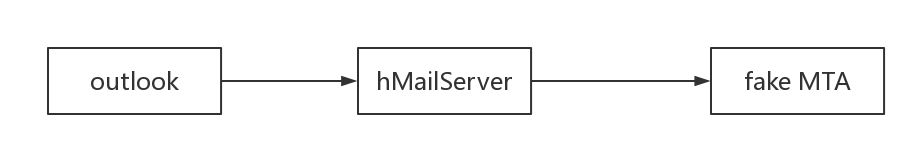
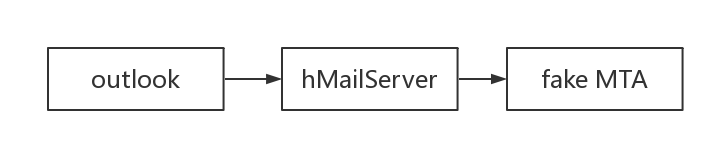
auto

Changed region(s): [[0.0308, 0.3099, 0.986, 0.7887]]

diff --git a/_posts/2017-08-03-outlook-save-eml.md b/_posts/2017-08-03-outlook-save-eml.md
@@ -13,5 +13,5 @@ The mail can only be saved as .msg format. The .msg file cannot be open by plain
 
 ## Solution
 As other MTA can save .eml format mails, we can use a fake MTA to receive the mail.
-![](https://drive.google.com/open?id=0B9rNZ0LfA7MMN3Zib2Y4aXFXY0k)
+![](https://raw.githubusercontent.com/deniswu1202/jekyll_pages/master/pic/20170803.1.png)
 
